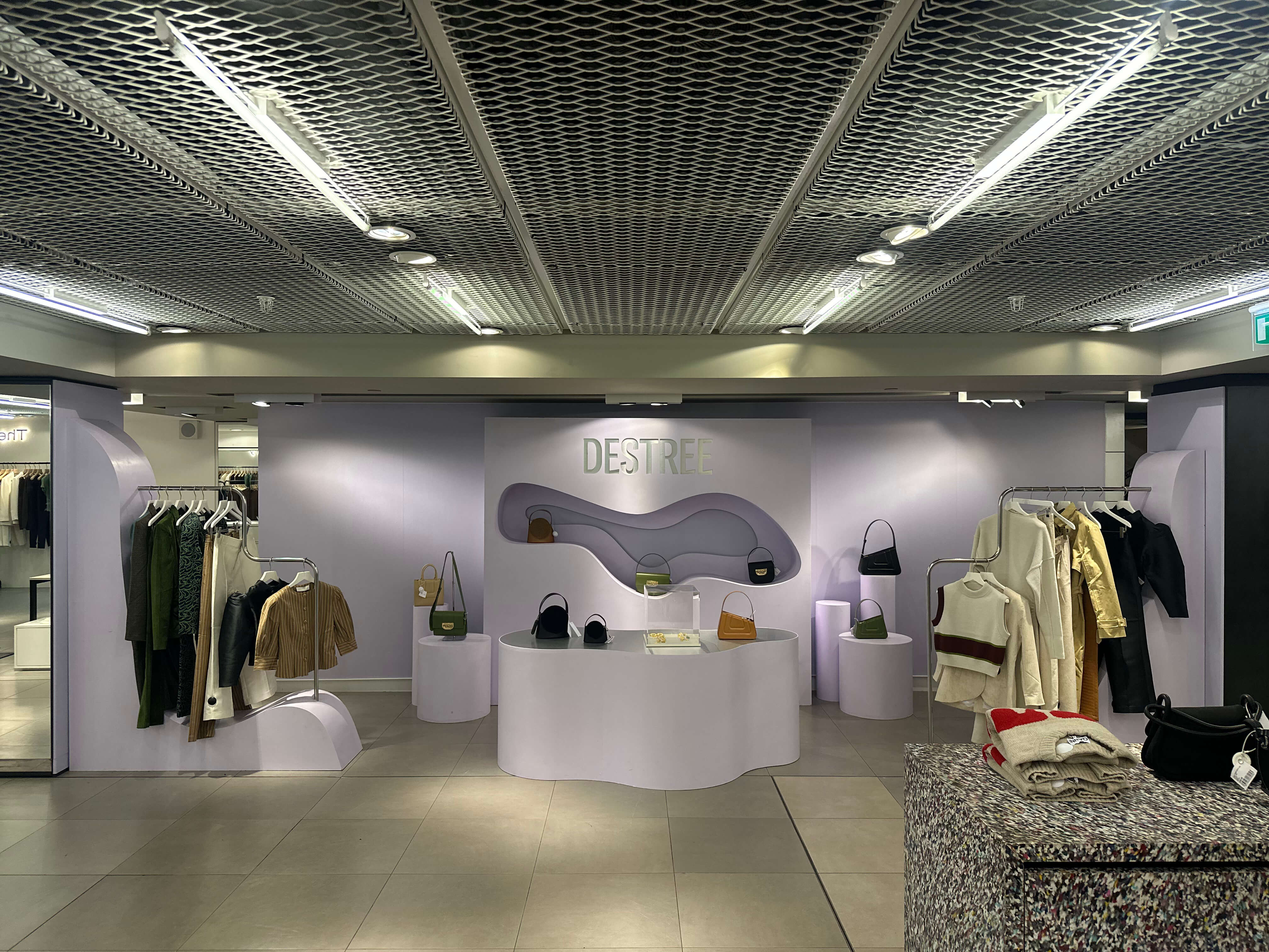
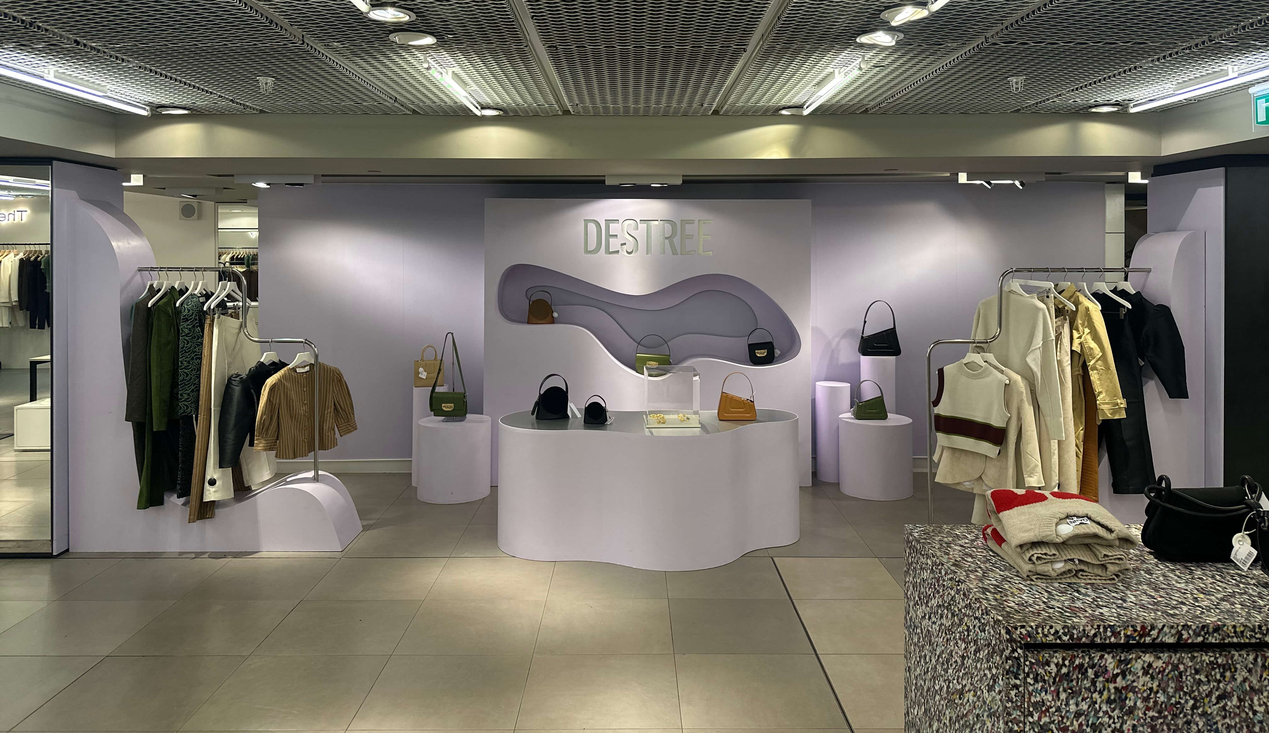
responsive spatial design details

diff --git a/src/Components/SpatialDesign/SpatialDetail.css b/src/Components/SpatialDesign/SpatialDetail.css
@@ -171,8 +171,6 @@
 .image1SpatialDetailDestree{
     width: 100%;
     height: 190px;
-    object-fit: cover;
-    object-position: 0 -75px;
 }
 .spatialDetailImages {
     display: flex;
@@ -360,7 +358,7 @@
         margin: 5% 0;
     }
     .image1SpatialDetailDestree {
-        height: 460px;
+        height: 400px;
     }
     .spatialDetailImages {
         margin-top: 2%;
@@ -520,9 +518,6 @@
     .infoContainerSpatialDetail div {
         padding-bottom: 3.5%;
     }
-    .image1SpatialDetail {
-        height: 500px;
-    }
     .spatialDetailImagesText {
         padding: 0 2vw;
         z-index: 2;
@@ -551,7 +546,7 @@
     }
     .image1SpatialDetailDestree {
         height: 500px;
-        object-position: 0 -350px;
+        object-fit: cover;
     }
     .spatialDetailImages {
         margin-top: 1%;
@@ -594,7 +589,7 @@
         height: 450px;
     }
     .image1SpatialDetail {
-        height: 700px;
+        height: 600px;
     }
     .spatialDetailImagesBoxHuda {
         height: 450px;
@@ -602,12 +597,32 @@
     }
 }
 @media(min-width:1400px){
-    /* .spatialDetailImagesBoxBenefit1 img .objPositionUnset{
-        object-fit: cover !important;
-    } */
+    
     .spatialDetailImagesBoxBenefit1 img {
         height: 530px;
         width: 33%;
+    }
+    .spatialDetailImgDestree2, .spatialDetailImgDestree {
+        height: 450px;
+    }
+    .image1SpatialDetailDestree {
+        height: 750px;
+    }
+    .spatialDetailImageBenefit {
+        height: 540px;
+        margin: 1.5% 0;
+    }
+    .spatialDetailBenefitImg {
+        height: 540px;
+    }    
+    .gisouFixedImg {
+        object-position: 0 -485px !important;
+    }
+    .spatialDetailGisouImg {
+        height: 550px;
+    }
+    .spatialDetailImagesBoxHuda, .spatialDetailImage3, .spatialDetailImage4 {
+        height: 550px;
     }
 }
 @media(min-width:1700px){
@@ -631,9 +646,11 @@
     .spatialDetailImagesBoxBenefit1 img {
         height: 704px;
     }
-    
+    .spatialDetailImagesBenefit img {
+        height: 704px;
+        object-position: unset;
+    }
     .stackContainer{
-        
         bottom: 155px;
     }
     .spatialDetailImagesText {
@@ -651,5 +668,26 @@
     }
     .infoSpatialDetailTextContainer p {
         font-size: 20px;
+    }
+    
+    .image1SpatialDetail {
+        height: 750px;
+    }
+    .spatialDetailImgBlanc {
+        height: 450px;
+    }
+    
+    .spatialDetailImgDestree2, .spatialDetailImgDestree {
+        height: 550px;
+    }
+    .spatialDetailImagesBoxPink {
+        height: 435px;
+    }
+    .gisouFixedImg {
+        object-position: 0 -631px !important;
+    }
+    
+    .spatialDetailImagesBoxHuda, .spatialDetailImage3, .spatialDetailImage4 {
+        height: 700px;
     }
 }

diff --git a/src/Components/Events/Places.jsx b/src/Components/Events/Places.jsx
@@ -85,7 +85,7 @@ function Places() {
         </div>
       </div>
       <div>
-        <img src={image1} className="image1SpatialDetail placesImage1" />
+        <img src={image1} className="placesImage1" />
         <div className='eventPlacesDetailImages'>
           <img src={image2} alt="Places + faces" className='sezaneImages placesImages'/>
           <img src={image3} alt="Places + faces" className='sezaneImages placesImages'/>

diff --git a/src/Components/Events/WWE.jsx b/src/Components/Events/WWE.jsx
@@ -78,7 +78,7 @@ function WWE() {
       <div>
 
         <div>
-          <img src={image1} alt="WWE" className='image1SpatialDetail wweImage1' />
+          <img src={image1} alt="WWE" className='wweImage1' />
           <p className='eventsDetailImagesText'>Behind the scenes</p>
           <div className='spatialDetailImagesBenefit'>
             <img src={image2} alt="WWE" className='spatialDetailBenefitImg wweImages'/>

diff --git a/src/Components/Events/EventsDetail.css b/src/Components/Events/EventsDetail.css
@@ -160,6 +160,9 @@
 .tabletAndDesktop {
     display: none;
 }
+.placesImage1, .wweImage1{
+    width: 100%;
+}
 @media(min-width: 700px){
     .mobileOnlyPlaces{
         display: none;
